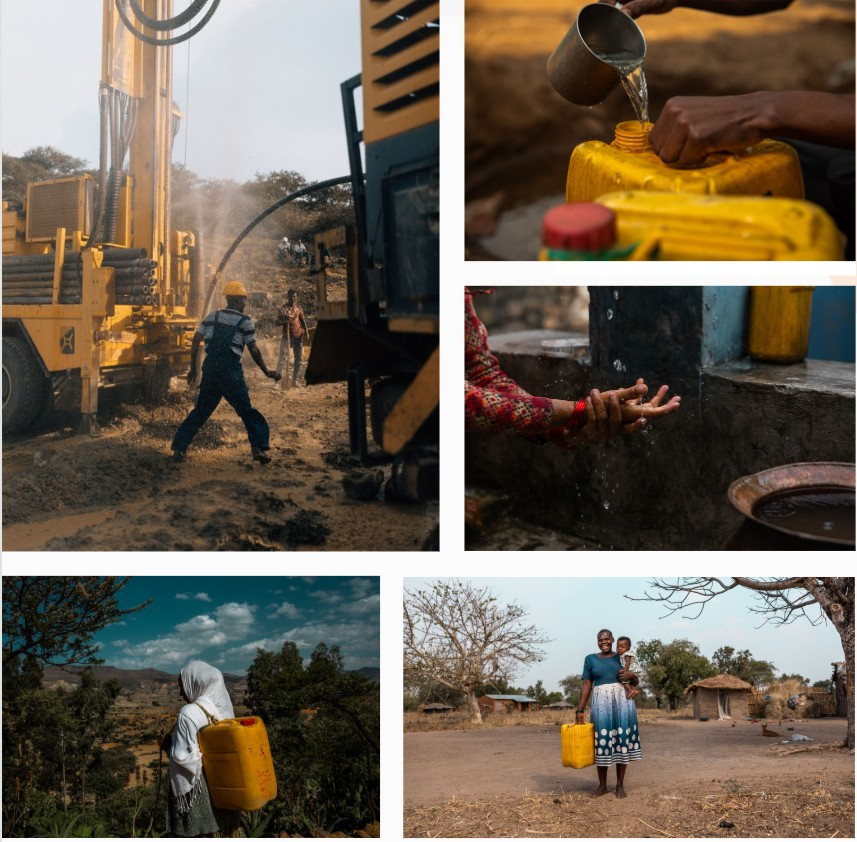
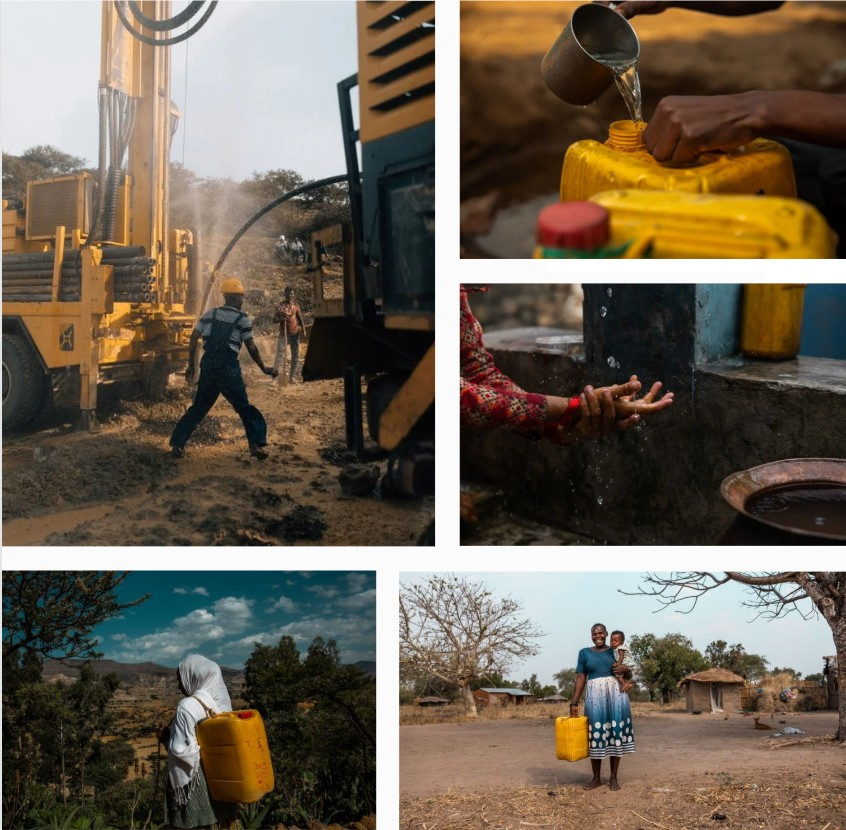
Muhra updated

diff --git a/style.css b/style.css
@@ -7,76 +7,94 @@ body {
   color: #1a1a1a;
 }
 
-/* Logo */
+/* Header */
 header {
-  /* Add 50px padding above and below the logo for some space */
-  padding: 50px 0; /* 50px top and bottom, 0 left and right */
+  padding: 50px 0;
   margin: 0;
   background-color: #ffffff;
   display: flex;
   justify-content: center;
   align-items: center;
+  position: relative;
+  z-index: 1;
+}
+
+.header-bg {
+  position: absolute;
+  top: 0;
+  left: 0;
+  width: 100%;
+  height: 100%;
+  background-color: #ffffff;
+  z-index: 2;
+}
+
+.logo {
+  position: relative;
+  z-index: 3;
 }
 
 .logo img {
-  /* No margin or padding so only the logo image is visible */
-  max-height: 50px; /* Adjust height as needed */
-  width: auto; /* Maintain aspect ratio */
+  max-height: 50px;
+  width: auto;
   margin: 0;
   padding: 0;
-  display: block; /* Removes extra space below image */
+  display: block;
 }
 
 /* Hero Section */
 .hero {
   display: flex;
   flex-wrap: wrap;
-  padding: 10px 5%;
+  padding: 0px 5%;
   background-color: #ffffff;
   justify-content: space-between;
   align-items: center;
+  position: relative;
 }
 
+/* Collage image */
 .image-grid {
-  /* Remove grid for beginners and make the collage image take up half the page width */
-  display: block; /* No grid for simplicity */
-  width: 50%;     /* Collage image container is half the page */
-  margin-right: 40px; /* Space to the right */
-  /* You can adjust margin as needed */
+  width: 50%;
+  margin-right: 40px;
+  z-index: 2;
+  position: relative;
 }
 
 .image-grid img {
-  /* Make the collage image fill its container and keep its shape */
   width: 100%;
   height: auto;
   display: block;
   border-radius: 6px;
 }
 
-/* Text Section */
+/* Text Block (with independent control) */
 .hero-text {
-  flex: 1 1 40%;
-  max-width: 500px;
-  padding: 20px;
-  background-color: #fed8c1; /* soft peach tone */
-  border-radius: 10px;
-  /* Center all content inside hero-text */
-  text-align: center;
+  width: 45%;
+  position: relative;
+  display: flex;
+  flex-direction: column;
+  align-items: flex-start;
 }
 
+/* Heading Text */
 .hero-text h1 {
-  /* Center the heading text */
-  text-align: center;
-  font-size: 2.2rem;
+  position: relative;
+  font-size: 3rem;
   font-weight: 600;
-  line-height: 1.3;
-  color: #1a1a1a;
+  line-height: 1.6;
   margin-bottom: 20px;
+  text-align: left;
+
+  /* 👇 MOVE THIS INDIVIDUALLY 👇 */
+  top: -60px;
+  left: 0px;
 }
 
+/* CTA Button */
 .cta-button {
-  display: inline-block;
-  background-color: #ffc907; /* charity: water yellow */
+  position: relative;
+  background-color: #ffc907;
   color: #1a1a1a;
   text-decoration: none;
   font-weight: 600;
@@ -84,16 +102,61 @@ header {
   border-radius: 5px;
   transition: all 0.3s ease;
   margin-bottom: 20px;
+
+  /* 👇 MOVE THIS INDIVIDUALLY 👇 */
+  top: 110px;
+  left: 0px;
 }
 
 .cta-button:hover {
-  background-color: #bf6c46; /* rich clay hover */
+  background-color: #bf6c46;
   color: #ffffff;
 }
 
+/* Subtext */
 .subtext {
-  font-size: 1rem;
-  color: #1a1a1a;
+  position: relative;
+  font-size: 1.2rem;
+  text-align: center;     /* Centers the text content */
+  align-self: center;     /* Centers the box inside the column */
+  
+  /* You can still move it individually */
+  top: 120px;
+  left: 25px;
+}
+
+
+/* Circles — UNCHANGED */
+.hero-text-bg-circles {
+  position: absolute;
+  top: -160px;
+  left: 75%;
+  width: 1200px;
+  height: 700px;
+  transform: translateX(-50%) rotate(10deg);
+  pointer-events: none;
+  z-index: 0;
+  overflow: hidden;
+}
+
+.hero-text-bg-circles .circle1 {
+  position: absolute;
+  top: 0;
+  left: 10%;
+  width: 600px;
+  height: 600px;
+  background: rgba(254, 216, 193, 0.5);
+  border-radius: 50%;
+}
+
+.hero-text-bg-circles .circle2 {
+  position: absolute;
+  top: 0;
+  left: 40%;
+  width: 600px;
+  height: 600px;
+  background: rgba(191, 108, 70, 0.5);
+  border-radius: 50%;
 }
 
 /* Responsive Design */
@@ -103,14 +166,22 @@ header {
     padding: 20px;
   }
 
-  .image-grid {
-    grid-template-columns: 1fr 1fr;
-    gap: 10px;
-    padding-right: 0;
-    margin-bottom: 20px;
+  .image-grid,
+  .hero-text {
+    width: 100%;
+    margin-right: 0;
   }
 
   .hero-text {
-    width: 100%;
+    align-items: center;
+  }
+
+  .hero-text h1,
+  .subtext {
+    text-align: center;
+  }
+
+  .cta-button {
+    align-self: center;
   }
 }

diff --git a/index.html b/index.html
@@ -10,38 +10,36 @@
 <body>
 
   <header>
-  <div class="logo">
-    <!-- Logo image for the website. The style below makes the logo even bigger (twice the previous size) -->
-    <img src="img/blacklogo.png" alt="charity: water logo" style="height:400px; width:auto;" />
-  </div>
-</header>
+    <div class="header-bg"></div>
+    <div class="logo">
+      <img src="img/blacklogo.png" alt="charity: water logo" style="height:400px; width:auto;" />
+    </div>
+  </header>
+
+  <div class="circle-cover"></div>
 
   <main>
     <section class="hero">
-      <div class="image-grid">
-        <!-- The style below makes the collage image bigger and not cropped -->
-        <img src="img/colage .jpg" alt="Collage of charity water activities" style="width:100%; max-width:800px; height:auto; display:block;" />
+      <!-- Circles (unchanged) -->
+      <div class="hero-text-bg-circles">
+        <div class="circle1"></div>
+        <div class="circle2"></div>
       </div>
+
+      <!-- Collage Image -->
+      <div class="image-grid">
+        <img src="img/colage .jpg" alt="Collage of charity water activities" />
+      </div>
+
+      <!-- Editable Texts -->
       <div class="hero-text">
         <h1>Lead Global Change — <br /> One Drop at a Time</h1>
-        <!-- This link will take users to the section with the id "donate" -->
         <a href="#donate" class="cta-button">Be the Change</a>
         <p class="subtext">
           100% of your donation brings clean water to people in need. Take action today and begin your journey as a changemaker.
         </p>
       </div>
     </section>
-    <!-- If you want the "Be the Change" button to work, add a section with id="donate" somewhere below -->
-    <!--
-    <section id="donate">
-      <h2>Donate Now</h2>
-      <!-- Donation form or information goes here --
-    </section>
-    -->
-  </main>
-
-</body>
-</html>
   </main>
 
 </body>
